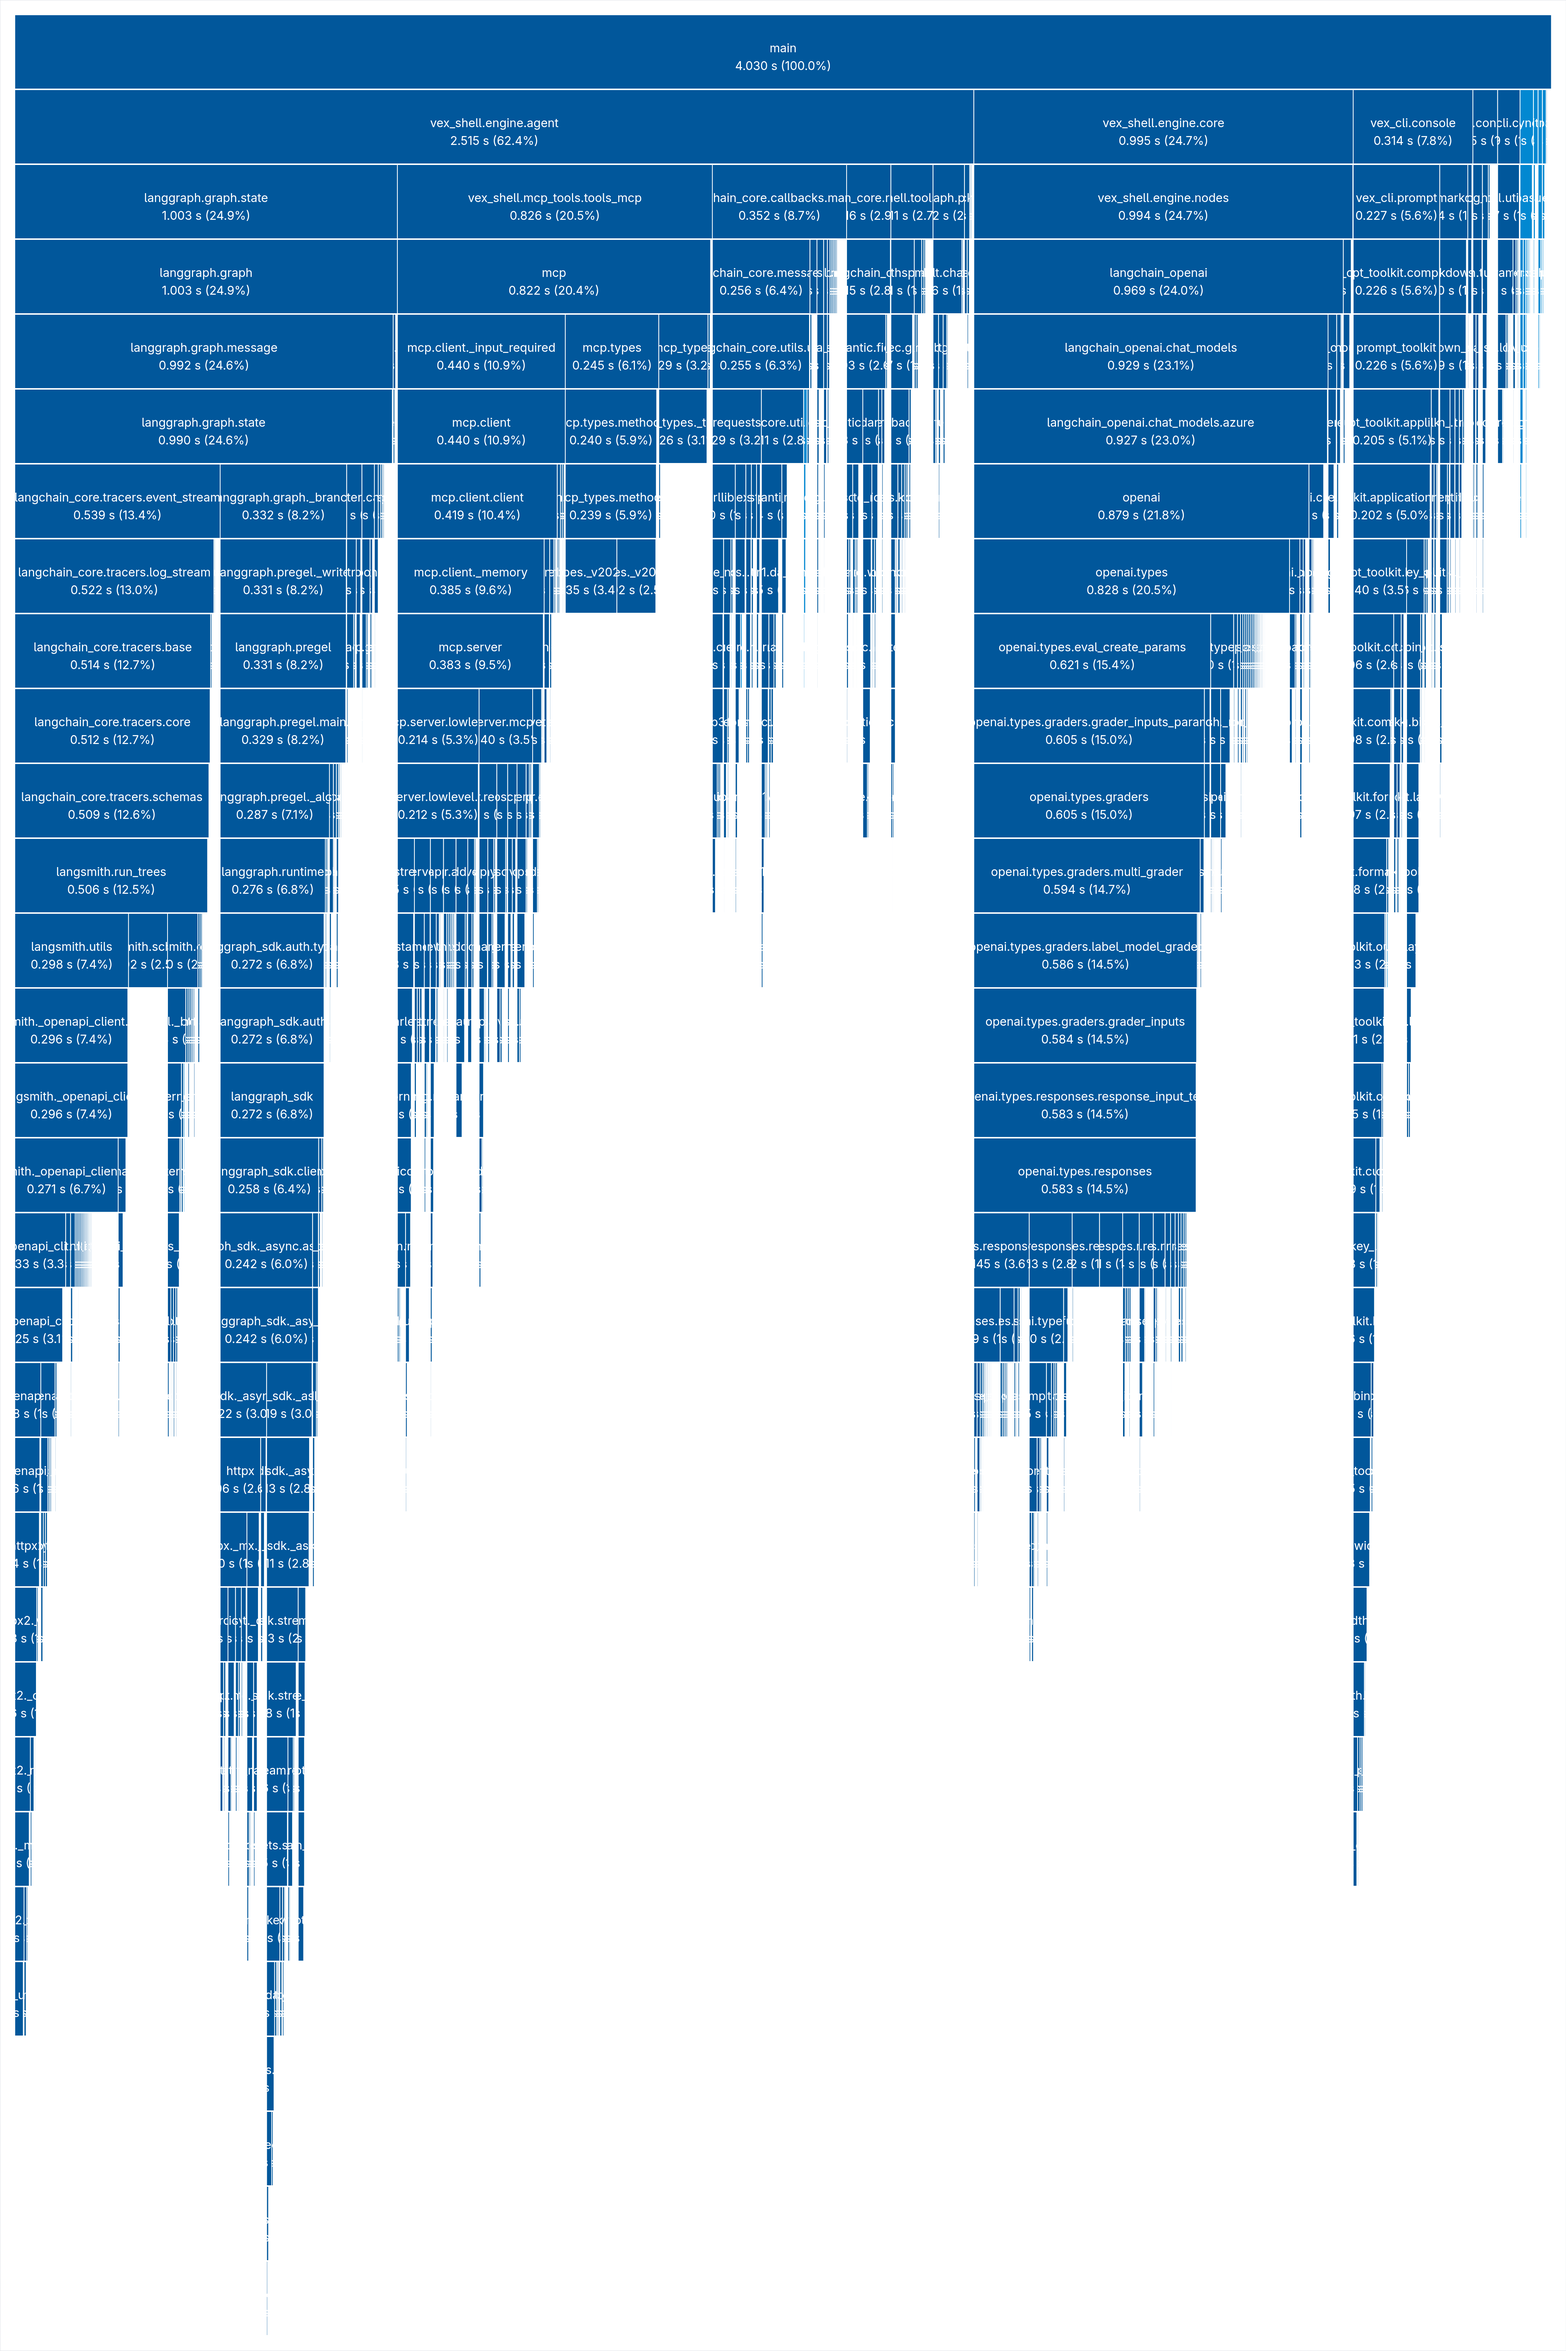
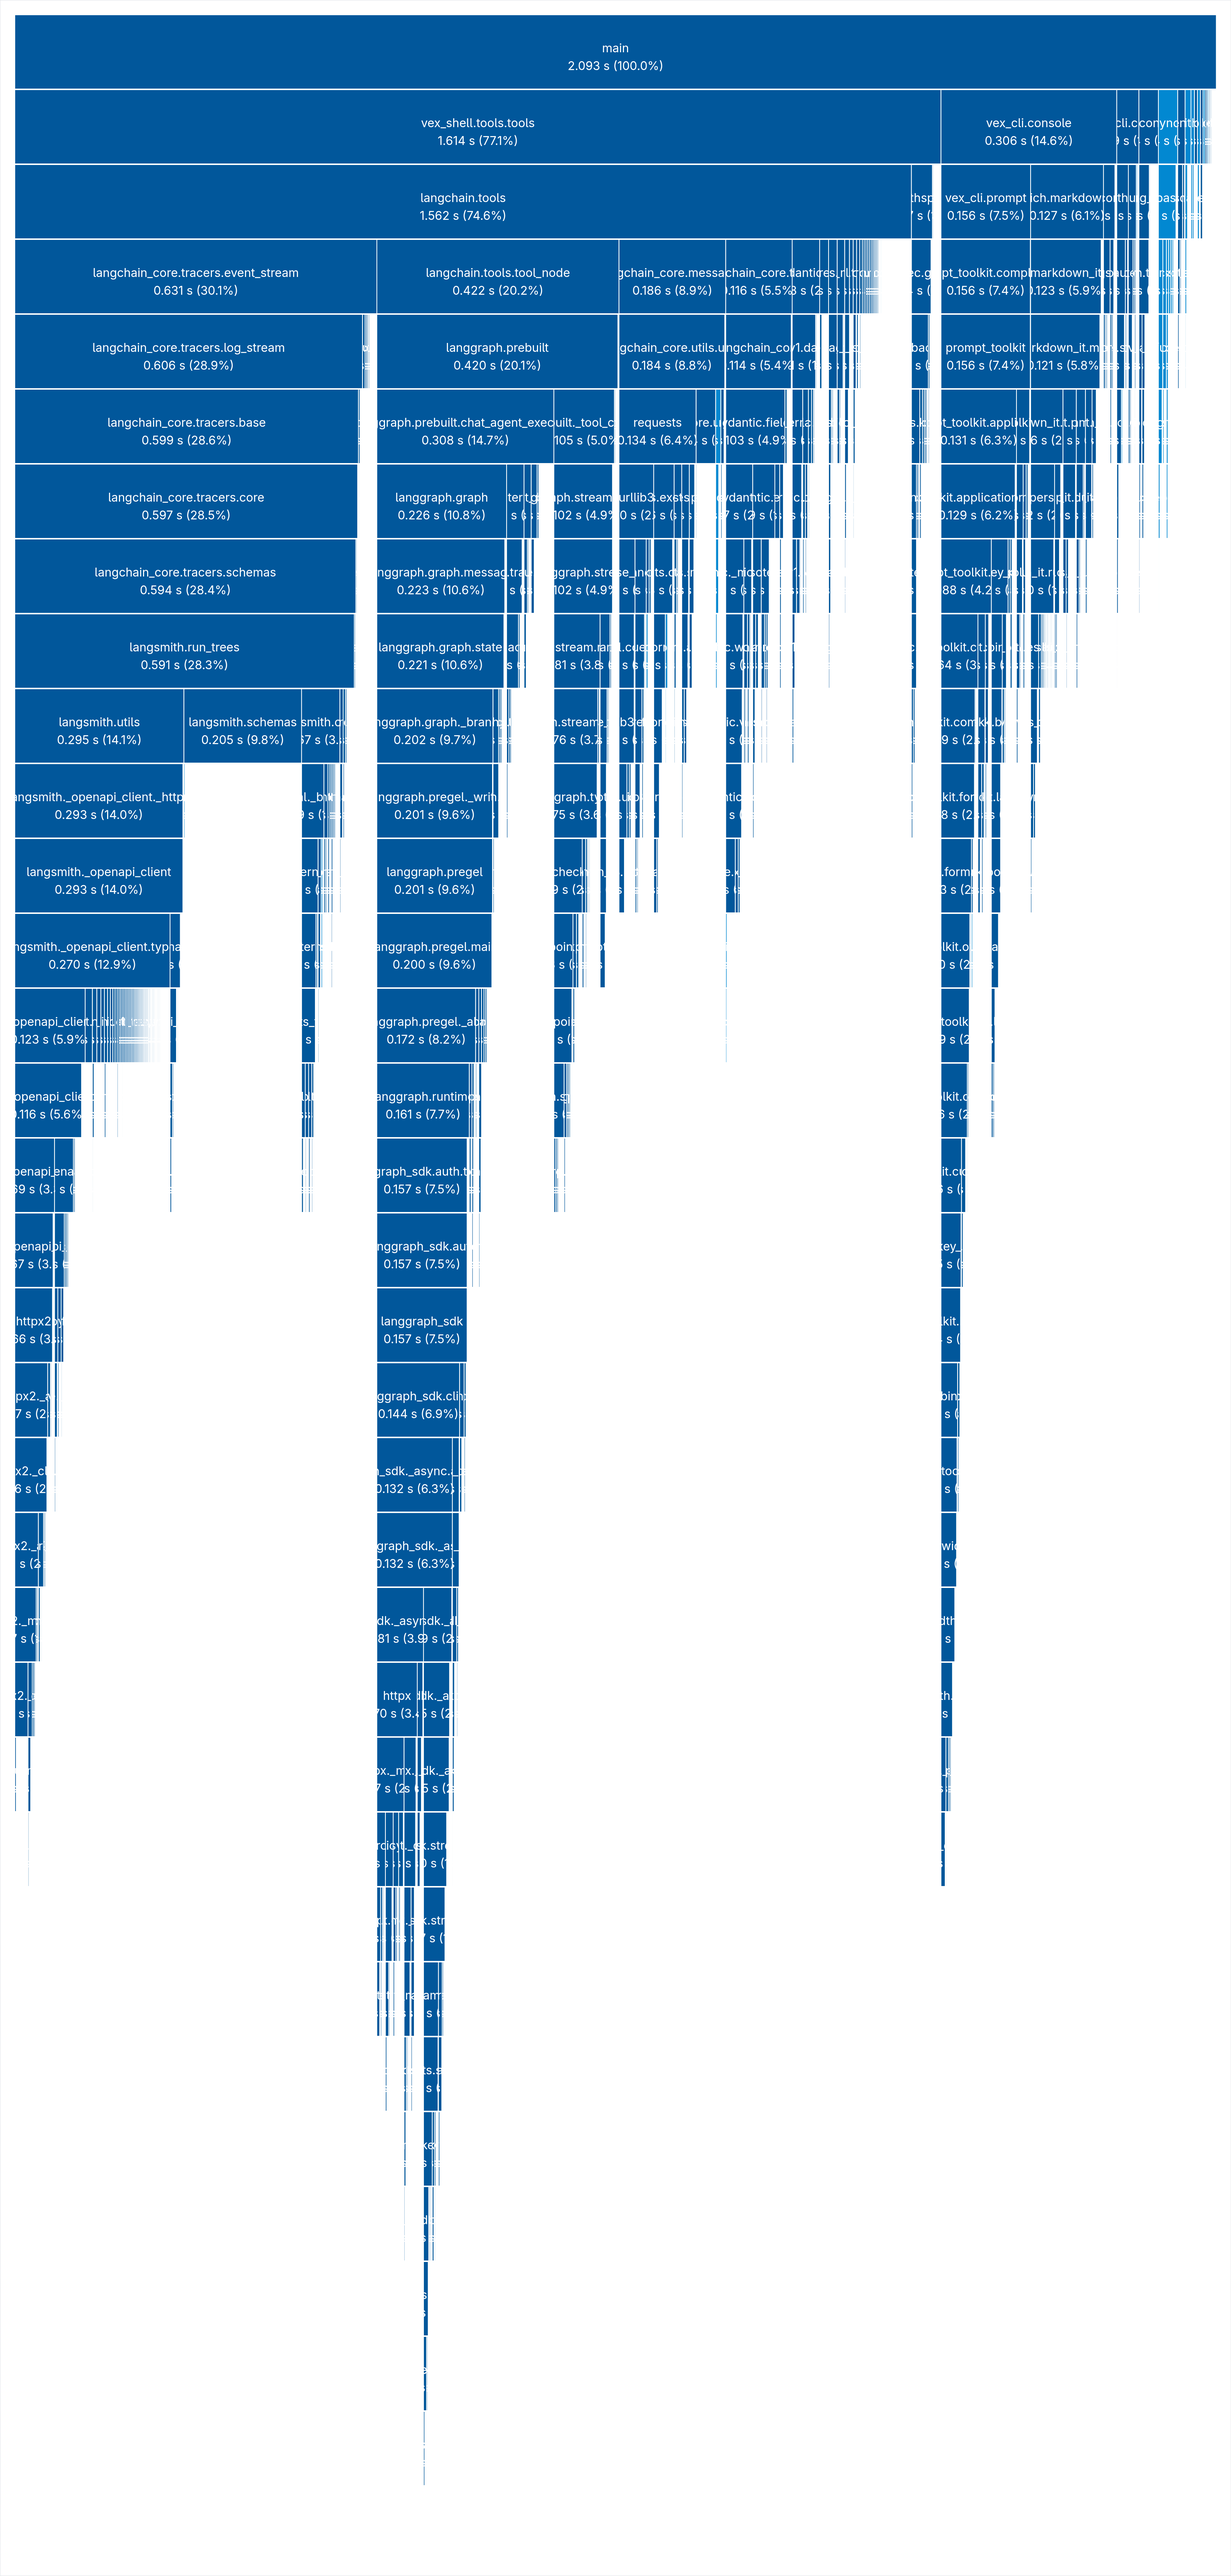
add startup optmization writing

Changed region(s): [[0.0, 0.0312, 0.9922, 0.9054], [0.4651, 0.0, 0.5271, 0.0312]]

diff --git a/src/vex_shell/engine/nodes.py b/src/vex_shell/engine/nodes.py
@@ -174,6 +174,7 @@ async def verification_node(state: State, settings: Settings):
 def should_continue(state: State):
     END = "__end__"
     from langchain_core.messages import AIMessage
+    # from langgraph.graph.state import END,START
 
     messages = state.get("messages",[])
     if not messages:

diff --git a/src/vex_cli/cli.py b/src/vex_cli/cli.py
@@ -102,7 +102,7 @@ async def run_agent(args):
     except Exception as e:
         import traceback
         console.print(f"\n[red]Unexpected error: {e}[/red]")
-        traceback.print_exc()
+        # traceback.print_exc()
     finally:
         await agent.close()
 

diff --git a/docs/vex_startup_time_optimization.md b/docs/vex_startup_time_optimization.md
@@ -1,0 +1,120 @@
+
+# Architecture Deep Dive: Startup Time & Import Optimization
+
+Here's where I started about 4s of cold start for both utility functions and main vex program - just disgusting speed for a *cutting-edge* agentic runtime.
+
+## The difference between main app and utility functions 
+All *utility* functions are a shortcuts that usually avoid main program functionality, for example 
+- `--help` - just show help message
+- `--ls` - list session, touch only sqlite database
+
+Obviously such functions should work almost immediately.
+How to speed up *utility* functionality in this case ? 
+Just bypass main program initialization:
+
+```py
+# Main CLI start point
+async def run_agent(args):
+    # ...
+
+    # Short circuits for utility functions 
+    if args.init:
+        init_workspace(console=console)
+        return
+    if args.list_sessions:
+        await list_sessions(settings,console)
+        return
+
+    # Start agent, heavy lift imports
+    from vex_shell.engine import core
+    from vex_shell.engine.agent import Agent
+
+    tools,mcp_manager = await core.get_tools(settings)
+    graph = core.build_graph(settings, tools)
+    agent = await Agent.create(graph, args.session, settings, mcp_manager)
+```
+*[cli.py](../src/vex_cli/cli.py#43)*
+
+All heavy imports occur after utility args checking(`from vex_shell.engine import core` etc).
+
+## Main App Startup Optimization
+
+Okay let's consider that we have blazingly fast utility functions, but what about main app startup ?
+Using some extremely useful tools, like  *[tuna](https://pypi.org/project/tuna/)* and `-X importtime`. I have investigated which modules slow down startup. Tuna generated visual map  showing the exact time required for module imports.
+
+Based on this map, I found several bottlenecks in the codebase.
+
+### Type Annotation-Only Imports
+During development, module-level imports are often added purely for type
+annotations:
+```py
+from vex_shell.utils.config import Settings
+```
+Even if `Settings` is used for type hints only, the **entire** `config` module, will still be loaded.
+To prevent this unexpected behavior, we can use the following pattern:
+
+```py
+from __future__ import annotations
+from typing import TYPE_CHECKING
+
+if TYPE_CHECKING:
+    from vex_shell.engine.agent import Agent
+    from rich.console import Console
+    from vex_shell.utils.config import Settings
+```
+
+`TYPE_CHECKING` evaluates to `False` during runtime, ensuring these imports are used strictly for static type checking during development. This yields **zero** resource overhead during execution.
+
+### Function-Scoped Imports
+
+Usually we just import most of modules at the top of `.py` file, but in this case we transfer all imports to application start time. Which isn't always a good choice. Alternatively we can use `on-demand imports`, thus import module during function call. Of course it will slow down function call time, but we can achieve shorter start time, moving delays to runtime, and it's also worth noting that any imports loaded only on the first call, after modules are already in cache.
+
+```py
+def build_graph(settings: Settings, tools:List[BaseTool]) -> StateGraph:
+    # On demand importing for heavy modules, only when function CALLED
+    from langgraph.graph.state import  StateGraph
+    from langgraph.prebuilt import ToolNode
+
+    from .nodes import llm_call_node, verification_node, should_continue, should_verify
+    from .state import State
+
+    tool_names = [e.name for e in tools]
+    
+    graph = StateGraph(State)
+    
+    # LLM Nodes
+    graph.add_node(
+        "llm_call", partial(llm_call_node, settings=settings, tool_names=tool_names)
+    )
+    graph.add_node("tool_node", ToolNode(tools))
+    graph.add_node("verification_node", partial(verification_node, settings=settings))
+    # ...
+```
+
+### Fun to note
+
+In [nodes.py](../src/vex_shell/engine/nodes.py) I used `from langgraph.graph.state import END`
+only for `END` constant, but it leads to a whole module import which consumes `1.36s`. By  just replacing this import with `END = "__end__"` I saved this time.
+
+
+## Approximate results
+
+1. MCPManager - imported only if defined in CONFIG.toml, saves 1 second.
+2. Move all annotation-only imports into a `TYPE_CHECKING` guard.
+3. Move all heavy imports inside functions (`ChatOpenAI`,`langchain.messages`,etc)
+
+## Timings
+
+- Utility functions - `-ls/--help/--reset` ~400ms
+- Main app start time (without MCP tools) ~2.1 seconds
+- Main app start time (with MCP tools)    ~2.7 seconds
+
+<details> 
+    <summary>Tuna diagrams here</summary>
+    <img src="./vex_import_0.3.png">
+    <img src="./vex_import_0.3.1.png">
+</details>
+
+<br>
+
+> Thanks for reading, Bye ₍^. .^₎⟆

diff --git a/README.md b/README.md
@@ -153,16 +153,21 @@ Full agent functionality out of the box!!
 - **Footprint**
 ```
 ---------------------
-VEX_SHELL 1403
-VEX_CLI   665
-TOTAL     2068
+Module    LOC
+VEX_SHELL 1092
+VEX_CLI   541
+TOTAL     1633
 ---------------------
 ```
 - **Start time:** ~2s
 - **utility functions (-ls/--help):** ~400ms
 
 ## Additional Documentation
-- [Agentic Awareness](./docs/agentic_awareness.md)
+- [Agentic Awareness](./docs/vex_agentic_awareness.md)
+- [Architecture Deep Dive: Startup Time & Import Optimization](./docs/vex_startup_time_optimization.md)
+
+## TODO
+- on-demand `write_file` appending, remove if write access denied.
 
 ## License
 GPL‑3 – feel free to fork, improve, and share.
